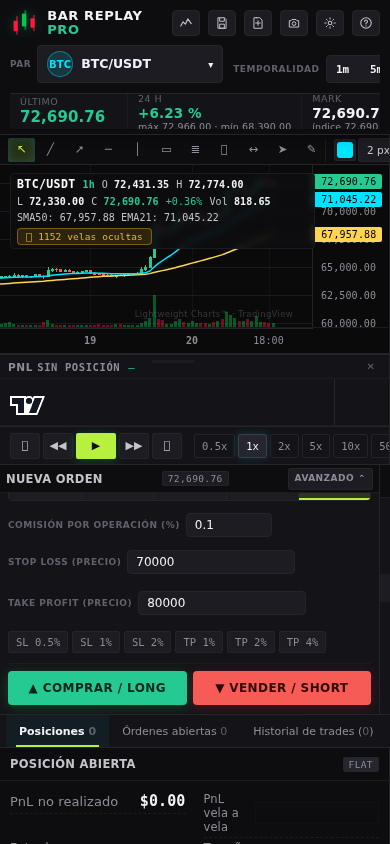
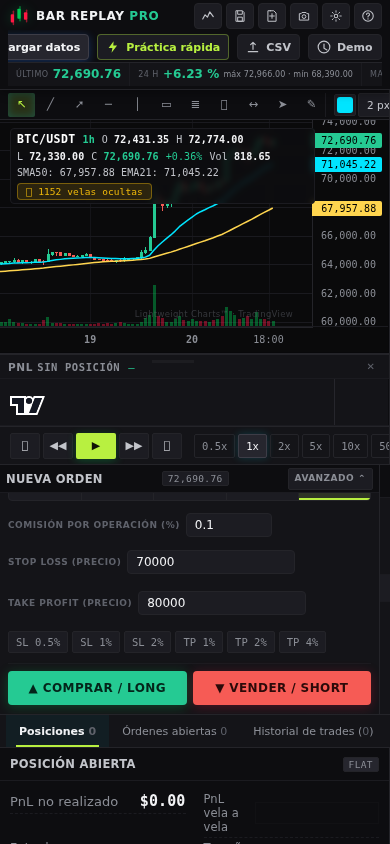
móvil: la barra superior pasa de 135 a 90 px y el gráfico gana 43 px
Con el formulario de órdenes compactado, lo único que separaba al gráfico de 200 px en
el teléfono era el andamio de arriba: 38 (marca + iconos) + 51 (par, temporalidad, fechas,
DEMO) + 36 (estadísticas 24 h) + 10 de padding = 135 px. Se aprieta sin ocultar nada —la
fila del par ya desliza en horizontal, así que las 7 temporalidades y los botones de
carga siguen todos ahí—:

- marca a 22 px de logo y 12 de letra; iconos a 26 de diana (el mínimo táctil de 20 que
  mide `tests/bitunix.test.js` se respeta);
- par / temporalidad / fechas con la etiqueta EN LÍNEA y `margin-bottom:0` en `.field`
  (dentro de la barra, esos 7 px del margen de los formularios en columna convertían una
  fila de 32 en una de 41) y los inputs de fecha a 26 → fila 51 → 32 px;
- estadísticas 24 h en una línea por chip, cifra a 12 px y `--stats-h: 24px` en el
  teléfono. El `--stats-h` es la trampa que no se veía: `.bf-stats` lleva `height` fijo
  en la regla base, así que compactar el contenido dejaba la fila en 36 px con 22 de
  contenido.

Defecto real que cazó el cambio de línea: `.bf-stat` tope a `max-width:230px` con
`text-overflow:ellipsis` → «máx 72,966.00 · mín 68,390.00» medía 258 contra 230 de caja y
en el móvil se leía el mínimo del día roto. Sin tope, cada chip pide su ancho y la fila
desliza 30 px más: ningún dato fuera.

Medido a 390×844: barra 90 px (filas 28/32/24), fila del gráfico 189 con la escalera por
[…]

diff --git a/tests/responsive.test.js b/tests/responsive.test.js
@@ -81,8 +81,8 @@ const wait = (ms) => new Promise((r) => setTimeout(r, ms));
        caja del gráfico mide lo que hay (caja == fila), 0 px pintados sobre la escalera y
        al menos el suelo duro de 120 px. La promesa numérica de «≥200 px de alto útil»
        vive donde se mide con la escalera por defecto (un solo panel de indicadores):
-       tests/browser.capture.js, en 480×900 —204 px medidos, y 146 px honestos en el
-       teléfono de 390×844, que es lo que cabe sin tocar nada alcanzable—. */
+       tests/browser.capture.js, en 480×900, y en el bloque de la barra superior de abajo
+       (390×844 con el andamio compactado: 190 px medidos de gráfico). */
     const etiqueta = `${w}×${h}`;
     ok(m.chart >= 120 && m.chart === m.fila, `${etiqueta}: el gráfico conserva ${m.chart}px en el PEOR caso de escalera (fila ${m.fila}px, suelo 120px)`);
     ok(m.solape === 0, `${etiqueta}: los paneles de indicadores no tapan la barra de replay`);
@@ -91,6 +91,77 @@ const wait = (ms) => new Promise((r) => setTimeout(r, ms));
     ok(m.recorteInterno === 0, `${etiqueta}: nada se recorta entre el gráfico y el panel inferior`);
     ok(m.playVisible, `${etiqueta}: el botón PLAY es visible sin desplazar`);
   }
+
+  /* ═══════════ LA BARRA SUPERIOR DEL TELÉFONO: 135 → 90 px, y al gráfico ═══════════
+     Con el formulario de órdenes ya compactado, lo único que separaba al gráfico de
+     200 px en el teléfono era el andamio de arriba: 38 (marca + iconos) + 51 (par,
+     temporalidad, fechas, DEMO) + 36 (estadísticas 24 h) + 10 de padding = 135 px.
+     Se aprieta sin ocultar nada, así que lo que hay que comprobar es doble: que la barra
+     mide lo prometido y que NINGÚN dato se perdió por el camino (ni un «máx 72,966 ·
+     mín 68,39…» con el número cortado a ellipsis, ni un botón que se quede fuera del
+     deslizador sin forma de llegar a él). */
+  console.log('\n▸ La barra superior del teléfono (andamio que come altura)');
+  await page.setViewport({ width: 390, height: 844, deviceScaleFactor: 1 });
+  await wait(500);
+  /* La escalera vuelve a su estado POR DEFECTO antes de mirar el gráfico: lo que se
+     juzga aquí es el andamio, y con RSI + MACD abiertos (el peor caso del bucle de
+     arriba) el alto del lienzo lo fija el mínimo de los paneles, no la barra —ahí la
+     ganancia se la comen los paneles y la medida no diría nada—. */
+  await page.evaluate(() => {
+    App.indicators.macd.on = false; App.indicators.rsi.on = false;
+    App.applyIndicators(App.indicators, true);
+  });
+  await wait(450);
+  const TB = await page.evaluate(async () => {
+    const g = (id) => document.getElementById(id);
+    const pisa = (e) => { const q = e.getBoundingClientRect();
+      const c = document.elementFromPoint(Math.round(q.left + q.width / 2), Math.round(q.top + q.height / 2));
+      return (c === e || e.contains(c) || (c && c.contains(e))) ? 'si' : 'no'; };
+    const tb = g('topbar'), q = tb.getBoundingClientRect();
+    const fila = (i) => Math.round(parseFloat(getComputedStyle(tb).gridTemplateRows.split(' ')[i] || '0'));
+    const grupo = tb.querySelector('.topbar-group');
+    const tfActivo = g('tfQuick').querySelector('.tf-btn.active');
+    const sinCorte = [...g('bfStats').children].every((c) =>
+      [...c.querySelectorAll('.bf-k, .bf-v, .bf-sub, .bf-bar')].every((k) => k.scrollWidth <= k.clientWidth + 1));
+    const textoFuera = [...g('bfStats').children].filter((c) => c.scrollWidth > c.clientWidth + 1).map((c) => c.id || c.className);
+    const rect = (e) => ({ t: Math.round(e.getBoundingClientRect().top), b: Math.round(e.getBoundingClientRect().bottom) });
+    return {
+      alto: Math.round(q.height), filas: [fila(0), fila(1), fila(2)], stats: Math.round(g('bfStats').getBoundingClientRect().height),
+      marca: Math.round(tb.querySelector('.brand').getBoundingClientRect().height),
+      iconos: [...tb.querySelectorAll('.topbar-right button')].map((e) => Math.round(e.getBoundingClientRect().height)),
+      scrolleaStats: g('bfStats').scrollWidth > g('bfStats').clientWidth + 2,
+      scrolleaGrupo: grupo.scrollWidth > grupo.clientWidth + 2,
+      anchoGrupo: [grupo.scrollWidth, grupo.clientWidth],
+      sinCorte, textoFuera,
+      // Fila 1 y 2 no se pisan, y las estadísticas empiezan por debajo del grupo del par.
+      pisaStats: rect(g('bfStats')).t >= rect(g('tfQuick')).b - 2,
+      pisaMarca: pisa(tb.querySelector('.brand-name')) === 'si' || pisa(g('btnIndicators')) === 'si',
+      par: pisa(g('btnSymbols')),
+      demoAntes: pisa(g('btnDemo')),
+      tfAntes: pisa(tfActivo),
+      tfTrasSwipe: (tfActivo.scrollIntoView({ inline: 'center', block: 'nearest' }), await new Promise((r) => setTimeout(() => r(pisa(tfActivo)), 240))),
+      demoTrasSwipe: (g('btnDemo').scrollIntoView({ inline: 'center', block: 'nearest' }), await new Promise((r) => setTimeout(() => r(pisa(g('btnDemo'))), 240))),
+      chart: Math.round(g('chartWrap').getBoundingClientRect().height),
+      filaChart: Math.round(parseFloat(getComputedStyle(g('chartArea')).gridTemplateRows.split(' ')[1] || '0')),
+      solape: Math.max(0, Math.round(g('chartWrap').getBoundingClientRect().bottom - g('paneArea').getBoundingClientRect().top)),
+      ovx: Math.max(0, document.documentElement.scrollWidth - window.innerWidth),
+      docH: document.documentElement.scrollHeight, vh: window.innerHeight,
+    };
+  });
+  ok(TB.alto <= 96 && TB.stats <= 26 && TB.marca <= 30,
+     `la barra del teléfono pasa de 135 a ${TB.alto} px (filas ${TB.filas.join('/')} · marca ${TB.marca} · estadísticas ${TB.stats})`);
+  ok(TB.chart >= 180 && TB.chart === TB.filaChart && TB.solape === 0,
+     `y esos píxeles son del gráfico: ${TB.chart} px de fila ${TB.filaChart} con la escalera por defecto (antes 189, y 43 al empezar el trabajo del móvil), solape ${TB.solape}`);
+  ok(TB.iconos.every((h) => h >= 20) && TB.par === 'si',
+     `la marca y los iconos siguen siendo diana (${TB.iconos.join('/')} px) y el botón del par se puede pulsar (${TB.par})`);
+  ok(TB.sinCorte && TB.textoFuera.length === 0,
+     `ningún dato de las 24 h se corta con ellipsis${TB.textoFuera.length ? ' (' + TB.textoFuera.join(', ') + ')' : ''} —los chips piden su ancho y la fila desliza (${TB.scrolleaStats ? 'sí' : 'no'})—`);
+  ok(TB.scrolleaGrupo && TB.anchoGrupo[0] > TB.anchoGrupo[1],
+     `la fila del par no esconde nada: desliza en horizontal (${TB.anchoGrupo[0]} px de contenido en ${TB.anchoGrupo[1]})`);
+  ok(TB.tfTrasSwipe === 'si' && TB.demoTrasSwipe === 'si',
+     `y tras deslizarla se alcanza la temporalidad activa y el botón DEMO (tf ${TB.tfAntes}→${TB.tfTrasSwipe}, demo ${TB.demoAntes}→${TB.demoTrasSwipe})`);
+  ok(TB.pisaStats && TB.ovx === 0 && TB.docH === TB.vh,
+     `las tres filas no se pisan (estadísticas bajo el grupo del par), el documento no desliza (${TB.docH} = ${TB.vh}) y no hay scroll horizontal (${TB.ovx}px)`);
 
   /* ═══════════ «AVANZADO» del formulario en el teléfono (390×844) ═══════════
      Mide el plegado de verdad: lo esencial cabe y se puede pulsar SIN scroll, y lo

diff --git a/css/bitunix.css b/css/bitunix.css
@@ -1249,6 +1249,67 @@ canvas.tr-spark { display: block; width: 46px; height: 16px;
 #panePnl .pane-title b { color: var(--tx-3); font-weight: 600; }
 
 @media (max-width: 640px) {
+  /* ───────────── LA BARRA SUPERIOR DEL TELÉFONO: 135 → ~106 px ─────────────
+     Medido a 390×844 antes de esto, las tres filas gastaban 38 (marca + iconos) + 51
+     (par, temporalidad, fechas, DEMO) + 36 (estadísticas 24 h) = 125, más 10 de padding
+     de la barra. Con el formulario de órdenes ya compactado, el andamio es lo único que
+     separa al gráfico de 200 px, así que se aprietan las tres filas a la vez SIN OCULTAR
+     NADA: la fila del par ya era deslizable en horizontal (`.topbar-group{overflow-x:auto}`
+     en el bloque de ≤1000), luego las siete temporalidades y los botones de carga siguen
+     todos ahí; lo que cambia es la FORMA:
+       · la marca, a 22 px de logo y 12 de letra (es logotipo, no información);
+       · los iconos de la derecha, diana de 24 —el mínimo táctil de 20 que mide
+         `tests/bitunix.test.js` se mantiene—;
+       · par, temporalidad y fechas con la ETIQUETA EN LÍNEA (44 → 30 por campo), igual que
+         en los campos del formulario;
+       · la fila de estadísticas, con la cifra a 12 px en vez de 15 (valor y subtítulo se
+         siguen leyendo: 12 y 8 px). */
+  /* El alto de la fila de estadísticas es UNA VARIABLE (`--stats-h`, y `@media
+     ≤1000` la deja en 34 px), no el contenido: por eso poner los chips en una línea no
+     bastaba —la fila seguía midiendo 36 con 22 de contenido—. Se baja el escalón del
+     teléfono a 24, que es lo que piden etiqueta + cifra + subtítulo en línea. */
+  :root { --stats-h: 24px; }
+  #topbar { padding: 2px 8px 3px; }
+  #topbar .brand { padding: 1px 0; gap: 6px; }
+  #topbar .brand-logo { width: 22px; height: 22px; }
+  #topbar .brand-name { font-size: 12px; line-height: 1.05; }
+  #topbar .topbar-right { padding: 1px 0; gap: 4px; }
+  #topbar .topbar-right .btn-icon { height: 24px; padding: 0 5px; }
+  #topbar .topbar-group:not(.topbar-right) { padding: 2px 0; gap: 8px; }
+  #topbar .topbar-group .field { flex-direction: row; align-items: center; gap: 5px; min-height: 26px;
+                                margin-bottom: 0; }
+  /* `margin-bottom:0`, que no es adorno: `.field` arrastra 7 px de margen para los
+     formularios en columna y aquí se sumaban a la fila (30 de campo + 7 + 4 de padding
+     = 41 de fila). Con eso fuera, la fila del par mide 34. */
+  #topbar .topbar-group input[type="date"], #topbar .topbar-group input[type="datetime-local"] { height: 26px; padding: 0 6px; font-size: 11px; }
+  #topbar .topbar-group .field-label { font-size: 9px; white-space: nowrap; }
+  #topbar .topbar-group .btn { height: 26px; padding: 0 8px; font-size: 11px; }
+  #topbar #btnSymbols { height: 26px; padding: 0 7px; font-size: 11px; }
+  #topbar #tfQuick { gap: 2px; }
+  #topbar #tfQuick .tf-btn { height: 24px; padding: 0 6px; font-size: 10.5px; }
+  /* Estadísticas 24 h en UNA LÍNEA por chip (36 → 22 px de fila): con la etiqueta
+     encima del valor cada chip medía 35 y la fila entera 36, el triple de lo que ocupa
+     «Último 72,690.76» escrito seguido —que es además como las muestra la app de
+     Bitunix en el teléfono—. La fila ya es deslizable, así que el ancho extra no cuesta
+     nada; lo que se gana van 14 px para el gráfico. */
+  #topbar .bf-stat { flex-direction: row; align-items: center; gap: 4px; padding: 2px 8px;
+                     max-width: none; }
+  /* `max-width:none` no es decorativo: la regla base topa cada chip a 230 px (bien en
+     escritorio, con la etiqueta encima de la cifra), y al pasar las tres piezas a una
+     línea el subtítulo ya no cabía —`.bf-sub` tiene `text-overflow:ellipsis`, así que
+     en el teléfono se leía «máx 72,966.00 · mín 68,39…» y el mínimo del día se perdía
+     (medido: 258 px de contenido contra 230 de caja)—. Sin tope, el chip ocupa lo que
+     pide y la fila, que ya es deslizable, se desliza 30 px más: ningún dato fuera. */
+  #topbar .bf-stat .bf-k { font-size: 8px; }
+  #topbar .bf-stat .bf-v { font-size: 12px; line-height: 1.1; }
+  #topbar .bf-stat .bf-sub { font-size: 8px; }
+  #topbar .bf-stat .bf-bar { width: 46px; flex: 0 0 auto; }
+  /* La nota del origen de los datos (`#bfSource`) viene con `flex:1 1 auto` para ceder
+     sitio en el escritorio, y en el teléfono se quedaba en 16 px: ni una letra de «libro:
+     derivado del replay · futuros: sí». Pide su ancho natural y se alcanza deslizando la
+     fila, como el resto de las estadísticas. */
+  #topbar .bf-stat.bf-src { flex: 0 0 auto; max-width: none; }
+
   /* En el móvil el gráfico mide ~200px: la etiqueta se aprieta y el panel de PnL
      baja a 92px para no quedarse con medio terminal. */
   #pnlBadge { gap: 4px 5px; padding: 3px 6px; font-size: 10px; max-width: 210px; flex-wrap: wrap; }

diff --git a/tests/pages-bitunix.js b/tests/pages-bitunix.js
@@ -439,6 +439,40 @@ const n0 = (x) => { const m = String(x).match(new RegExp(NUMRX)); return m ? par
        esencial alcanzable sin deslizar, lo plegado alcanzable al abrir— porque la
        segunda sin la primera es simplemente esconder cosas. */
     if (w <= 640) {
+      /* La barra superior compactada, SOBRE LO PUBLICADO: la promesa no es «que quepa»,
+         es que quepa sin perder dato ni botón. Se mide el andamio, el recorte con
+         ellipsis de cada chip de 24 h y si lo que queda fuera del deslizador horizontal
+         se alcanza deslizando. */
+      const TB = await p.evaluate(async () => {
+        const g = (id) => document.getElementById(id);
+        const tb = g('topbar'), q = tb.getBoundingClientRect();
+        const pisa = (e) => { const r = e.getBoundingClientRect();
+          const c = document.elementFromPoint(Math.round(r.left + r.width / 2), Math.round(r.top + r.height / 2));
+          return (c === e || e.contains(c) || (c && c.contains(e))) ? 'si' : 'no'; };
+        const corte = [...g('bfStats').children].filter((c) =>
+          [...c.querySelectorAll('.bf-k, .bf-v, .bf-sub')].some((k) => k.scrollWidth > k.clientWidth + 1)).map((c) => (c.textContent || '').replace(/\s+/g, ' ').trim().slice(0, 18));
+        const grupo = tb.querySelector('.topbar-group');
+        const tf = g('tfQuick').querySelector('.tf-btn.active');
+        const antes = pisa(tf);
+        tf.scrollIntoView({ inline: 'center', block: 'nearest' });
+        await new Promise((r) => setTimeout(r, 260));
+        const despues = pisa(tf);
+        return { alto: Math.round(q.height), filas: getComputedStyle(tb).gridTemplateRows,
+          stats: Math.round(g('bfStats').getBoundingClientRect().height),
+          iconos: [...tb.querySelectorAll('.topbar-right button')].map((e) => Math.round(e.getBoundingClientRect().height)),
+          scrollea: grupo.scrollWidth > grupo.clientWidth + 2, corte, antes, despues,
+          chart: Math.round(g('chartWrap').getBoundingClientRect().height),
+          fila: Math.round(parseFloat(getComputedStyle(g('chartArea')).gridTemplateRows.split(' ')[1] || '0')),
+          solape: Math.max(0, Math.round(g('chartWrap').getBoundingClientRect().bottom - g('paneArea').getBoundingClientRect().top)) };
+      });
+      ok(TB.alto <= 96 && TB.stats <= 26 && TB.iconos.every((h) => h >= 20),
+         `${etiqueta}: la barra superior del teléfono mide ${TB.alto} px (filas ${TB.filas}, estadísticas ${TB.stats}, iconos ${TB.iconos.join('/')})`);
+      ok(TB.corte.length === 0, `${etiqueta}: ningún número de las 24 h queda cortado con ellipsis${TB.corte.length ? ' (' + TB.corte.join(' | ') + ')' : ''}`);
+      ok(TB.scrollea && TB.antes === 'no' && TB.despues === 'si',
+         `${etiqueta}: la fila del par desliza y la temporalidad activa se alcanza deslizando (${TB.antes} → ${TB.despues})`);
+      ok(TB.chart >= 120 && TB.chart === TB.fila && TB.solape === 0,
+         `${etiqueta}: y el gráfico se queda con ${TB.chart} px de verdad (fila ${TB.fila}, solape ${TB.solape})`);
+
       const AV = await p.evaluate(async () => {
         const g = (id) => document.getElementById(id);
         const pisa = (e) => {

diff --git a/bar-replay-pro-unico.html b/bar-replay-pro-unico.html
@@ -1585,6 +1585,29 @@ canvas.tr-spark { display: block; width: 46px; height: 16px;
 #tradesBody tr:hover canvas.tr-spark { border-color: var(--line); }
 #panePnl .pane-title b { color: var(--tx-3); font-weight: 600; }
 @media (max-width: 640px) {
+  :root { --stats-h: 24px; }
+  #topbar { padding: 2px 8px 3px; }
+  #topbar .brand { padding: 1px 0; gap: 6px; }
+  #topbar .brand-logo { width: 22px; height: 22px; }
+  #topbar .brand-name { font-size: 12px; line-height: 1.05; }
+  #topbar .topbar-right { padding: 1px 0; gap: 4px; }
+  #topbar .topbar-right .btn-icon { height: 24px; padding: 0 5px; }
+  #topbar .topbar-group:not(.topbar-right) { padding: 2px 0; gap: 8px; }
+  #topbar .topbar-group .field { flex-direction: row; align-items: center; gap: 5px; min-height: 26px;
+                                margin-bottom: 0; }
+  #topbar .topbar-group input[type="date"], #topbar .topbar-group input[type="datetime-local"] { height: 26px; padding: 0 6px; font-size: 11px; }
+  #topbar .topbar-group .field-label { font-size: 9px; white-space: nowrap; }
+  #topbar .topbar-group .btn { height: 26px; padding: 0 8px; font-size: 11px; }
+  #topbar #btnSymbols { height: 26px; padding: 0 7px; font-size: 11px; }
+  #topbar #tfQuick { gap: 2px; }
+  #topbar #tfQuick .tf-btn { height: 24px; padding: 0 6px; font-size: 10.5px; }
+  #topbar .bf-stat { flex-direction: row; align-items: center; gap: 4px; padding: 2px 8px;
+                     max-width: none; }
+  #topbar .bf-stat .bf-k { font-size: 8px; }
+  #topbar .bf-stat .bf-v { font-size: 12px; line-height: 1.1; }
+  #topbar .bf-stat .bf-sub { font-size: 8px; }
+  #topbar .bf-stat .bf-bar { width: 46px; flex: 0 0 auto; }
+  #topbar .bf-stat.bf-src { flex: 0 0 auto; max-width: none; }
   #pnlBadge { gap: 4px 5px; padding: 3px 6px; font-size: 10px; max-width: 210px; flex-wrap: wrap; }
   #pnlBadgeVal { font-size: 11px; }
   #pnlBadgeQty, #pnlBadgePct, #pnlBadgeDelta, #pnlBadgeReal { font-size: 9px; }

diff --git a/README.md b/README.md
@@ -320,7 +320,7 @@ también a 1440 px).
 **En ventana baja, el andamio se encoge; el gráfico, no.** `css/bitunix.css` define
 los escalones de altura (≤860 / ≤820 / ≤700 / ≤560 px) que recortan estadísticas,
 barra de replay y panel inferior hasta ~104 px. Dos leyes probadas por
-`tests/responsive.test.js` (74 comprobaciones) y `tests/browser.capture.js`:
+`tests/responsive.test.js` (81 comprobaciones) y `tests/browser.capture.js`:
 el gráfico conserva ≥150 px (≥200 px si el hueco es de ≥720) y **ningún tope de
 altura se pone sin su `overflow`** —un `max-height` con `overflow:visible` dejaba
 el botón «⏳ Límite`» fuera de la caja y era inclicable a 1280×820 (de ahí el
@@ -520,7 +520,7 @@ node tests/network.test.js    #  10 comprobaciones de paginación y datos reales
 node tests/browser.capture.js #  48 comprobaciones en Chromium real + capturas PNG
 node tests/iframe.test.js     #  22 comprobaciones dentro de un iframe sandbox (sin red)
 node tests/preview-live.test.js # 17 comprobaciones del preview EN VIVO (datos reales vía proxy)
-node tests/responsive.test.js #  74 comprobaciones de tamaño: 10 paneles, sin recortes y
+node tests/responsive.test.js #  81 comprobaciones de tamaño: 10 paneles, sin recortes y
                               #   con RSI + MACD abiertos (el peor caso de la escalera) el
                               #   gráfico no pinta sobre los paneles: caja == fila, 0 solape
                               #   + el bloque «Avanzado» del teléfono, medido pulsando
@@ -570,7 +570,7 @@ node tests/single.test.js     # archivo único en navegador real sin red
 
 ```
 Resultado actual (`node tools/run-all.js`, todo lo que no depende del despliegue):
-**1088 comprobaciones, 0 fallos** ✅ · **23 suites** locales · 1 sin contador (`single.test.js`,
+**1095 comprobaciones, 0 fallos** ✅ · **23 suites** locales · 1 sin contador (`single.test.js`,
 que es un escenario completo de navegador y cuenta sus comprobaciones a medias)
 Con las seis que auditan lo publicado (`node tools/run-all.js --publicadas`):
 **1382 comprobaciones, 0 fallos** ✅ · **29 suites** · 1 sin contador (`single.test.js`)
@@ -868,6 +868,35 @@ bar-replay-app/
   **72** y RSI 52 → **44 px**. Resultado: la fila del gráfico en 390×844 pasa de 43 a
   **146 px** y en 480×900 a **204 px** —los 200 que pide `tests/browser.capture.js`, que
   se cumplen sin tocar nada más—, con caja == fila y 0 px de solape en las dos.
+- **La barra superior del teléfono, 135 → 90 px (2026-10-09).** Con el formulario de
+  órdenes ya compactado, lo único que separaba al gráfico de 200 px era el andamio de
+  arriba: 38 (marca + iconos) + 51 (par, temporalidad, fechas, DEMO) + 36 (estadísticas
+  24 h) + 10 de padding. Se aprieta **sin ocultar nada** (la fila del par ya era
+  deslizable en horizontal, así que las siete temporalidades y los botones de carga siguen
+  todos ahí), y todo lo que baja es medido:
+  · marca a 22 px de logo y 12 de letra; iconos a 26 de diana (el mínimo táctil de 20 del
+    contrato se respeta);
+  · par, temporalidad y fechas con la **etiqueta en línea** y `margin-bottom:0` en
+    `.field` —dentro de la barra esos 7 px del margen de los formularios en columna eran
+    la diferencia entre una fila de 41 y una de 32—: fila 51 → **32 px**;
+  · estadísticas 24 h con cifra a 12 px, etiqueta y subtítulo **en la misma línea**, y
+    `--stats-h: 24px` en el teléfono: fila 36 → **24 px**. Ese `--stats-h` es la trampa:
+    la regla base le da un `height` fijo a `.bf-stats`, así que poner los chips en una
+    línea no bastaba —la fila seguía midiendo 36 con 22 de contenido—;
+  · y la que sí era un defecto de verdad: `.bf-stat` tope a `max-width:230px` con
+    `text-overflow:ellipsis`. Al pasar a una línea, «máx 72,966.00 · mín 68,390.00»
+    medía 258 contra 230 de caja y **el mínimo del día se leía roto en el móvil**. Sin
+    tope, cada chip pide su ancho y la fila desliza 30 px más: ningún dato fuera (lo
+    comprueba `tests/responsive.test.js` midiendo `scrollWidth > clientWidth` de cada
+    cifra y `tests/pages-bitunix.js` sobre lo publicado).
+  Resultado medido en 390×844: barra **90 px** (filas 28/32/24), fila del gráfico
+  **189 px** con la escalera por defecto del propio build publicado y **234 px** con los
+  paneles de indicadores cerrados (antes 146 y 189), **146 px** en el peor caso de tres
+  paneles —ahí el límite lo fija el mínimo de los paneles, no el andamio, y la ganancia
+  se la comen ellos: por eso el contrato de esta fila es geométrico (caja == fila,
+  solape 0) y no un número—; `docH == vh` (la página sigue sin deslizar), 0 px de scroll
+  horizontal y la temporalidad activa y el botón DEMO, alcanzables deslizando su fila
+  (`no → sí` con `elementFromPoint` en el centro).
   **La franja de órdenes se quedó en 250 px, y no fue pereza**: bajarla a 200 metía 48 px
   de velas más en el gráfico pero sacaba del recorte el botón del trailing y las filas de
   TP/SL —`tests/pages-trailing.js` lo cantó sobre lo publicado («el centro del botón está
